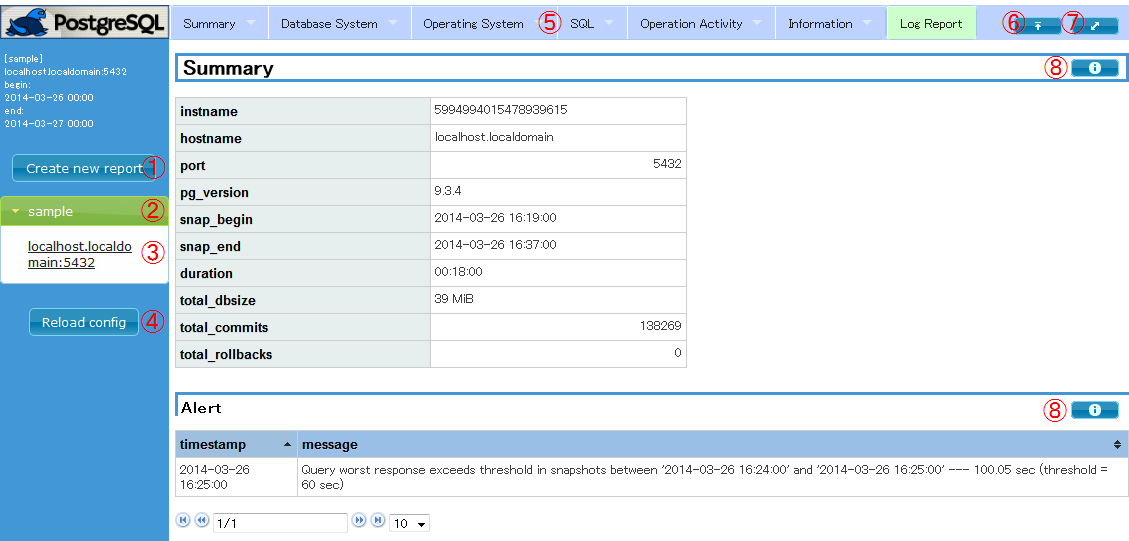
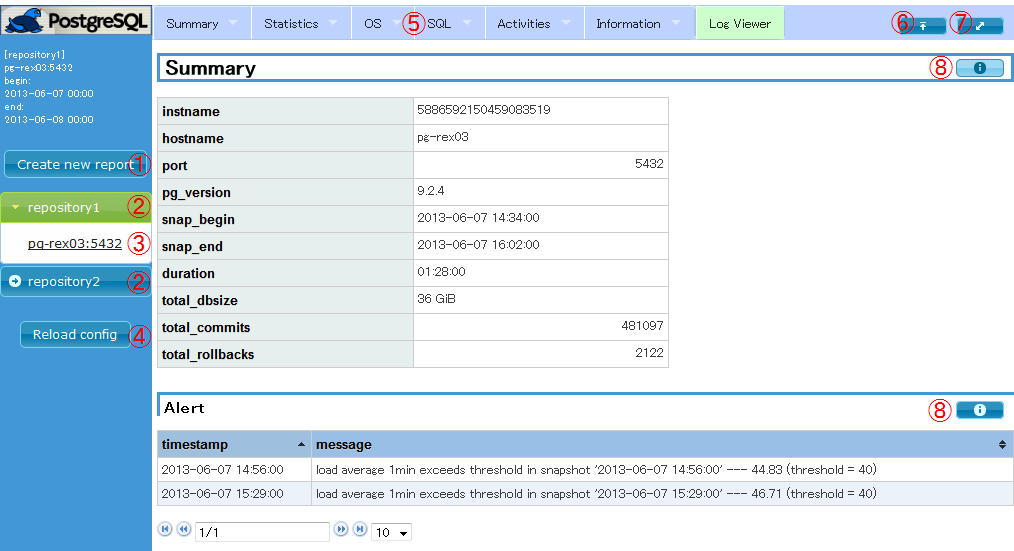
pg_stats_reporter マニュアルのレビュ(4/17)のコメント反映

Changed region(s): [[0.0, 0.0, 1.0, 0.6802], [0.1529, 0.7098, 1.0, 0.9168], [0.1529, 0.9464, 0.3974, 0.976]]

diff --git a/html/pg_stats_reporter/doc/files/log_viewer_sample.html b/html/pg_stats_reporter/doc/files/log_viewer_sample.html
@@ -28,8 +28,8 @@
 <script type="text/javascript" src="../../package/tablesorter/js/widgets/widget-columnSelector.js"></script>
 <!-- pg_stats_reporter's javascript -->
 <script type="text/javascript" src="../js/common.js"></script>
-<script type="text/javascript" src="../js/log_report.js"></script>
-<script type="text/javascript" src="../js/log_report_ajax.js"></script>
+<script type="text/javascript" src="../js/log_viewer.js"></script>
+<script type="text/javascript" src="../js/log_viewer_ajax.js"></script>
 
 <!-- stylesheets -->
 <link rel="stylesheet" type="text/css" href="../../package/superfish/superfish-1.7.2/css/superfish.css"/>
@@ -46,7 +46,7 @@
 <li><a href="report_sample.html#summary">Summary</a><ul>
 <li><a href="report_sample.html#alert">Alert</a></li>
 </ul></li>
-<li><a href="report_sample.html#database_system">Database System</a><ul>
+<li><a href="report_sample.html#statistics">Statistics</a><ul>
 <li><a href="report_sample.html#database_statistics">Database Statistics</a><ul>
 <li><a href="report_sample.html#transaction_statistics">Transaction Statistics</a></li>
 <li><a href="report_sample.html#database_size">Database Size</a></li>
@@ -58,7 +58,7 @@
 <li><a href="report_sample.html#instance_processes">Instance Processes</a></li>
 </ul></li>
 </ul></li>
-<li><a href="report_sample.html#operating_system">Operating System</a><ul>
+<li><a href="report_sample.html#os">OS</a><ul>
 <li><a href="report_sample.html#os_resource_usage">OS Resource Usage</a><ul>
 <li><a href="report_sample.html#cpu_usage">CPU Usage</a></li>
 <li><a href="report_sample.html#load_average">Load Average</a></li>
@@ -84,7 +84,7 @@
 <li><a href="report_sample.html#long_transactions">Long Transactions</a></li>
 <li><a href="report_sample.html#lock_conflicts">Lock Conflicts</a></li>
 </ul></li>
-<li><a href="report_sample.html#operation_activity">Operation Activity</a><ul>
+<li><a href="report_sample.html#activities">Activities</a><ul>
 <li><a href="report_sample.html#checkpoint_activity">Checkpoint Activity</a></li>
 <li><a href="report_sample.html#autovacuum_activity">Autovacuum Activity</a><ul>
 <li><a href="report_sample.html#basic_statistics">Basic Statistics (Average)</a></li>
@@ -105,9 +105,9 @@
 </ul></li>
 </ul></li>
 </ul>
-<!-- Log Report -->
+<!-- Log Viewer -->
 <ul id="dropdown2" class="sf-menu menu">
-<li><a href="#log_report">Log Report</a></li>
+<li><a href="#log_viewer">Log Viewer</a></li>
 </ul>
 <!-- hide left menu button  -->
 <div align="right" class="jquery_ui_button_max">
@@ -158,10 +158,10 @@
 <div id="contents">
   <div class="top_jump_margin"></div>
 
-  <div id="log_report" class="jump_margin"></div>
-  <h1>Log Report</h1>
+  <div id="log_viewer" class="jump_margin"></div>
+  <h1>Log Viewer</h1>
   <div align="right" class="jquery_ui_button_info_h1">
-    <button class="help_button" dialog="#log_report_dialog"></button>
+    <button class="help_button" dialog="#log_viewer_dialog"></button>
   </div>
 
   <input id="page_total" type="hidden" value="3">
@@ -235,7 +235,7 @@
       </div>
     </div>
   </div>
-  <table id="log_report_table" class="tablesorter">
+  <table id="log_viewer_table" class="tablesorter">
     <thead>
       <tr>
         <th>timestamp</th>
@@ -274,7 +274,7 @@
       </div>
     </div>
   </div>
-<div id="log_report_dialog" class="help_dialog" title="How to see a Log Report table">
+<div id="log_viewer_dialog" class="help_dialog" title="How to use Log Viewer">
 <h4>How to use Search Option.</h4>
 To narrow down the log, enter the search criteria and click "Search" button.
 <ul>
@@ -283,7 +283,7 @@ To narrow down the log, enter the search criteria and click "Search" button.
 <li>DATABASE : database name</li>
 <li>MESSAGE : error message (POSIX Regular Expressions)</li>
 </ul>
-<h4>How to see a Log Report table.</h4>
+<h4>How to see a Log table.</h4>
 <ul>
 <li>timestamp : timestamp with milliseconds</li>
 <li>username : user name</li>

diff --git a/html/pg_stats_reporter/doc/files/report_sample.html b/html/pg_stats_reporter/doc/files/report_sample.html
@@ -56,7 +56,7 @@
 <li><a href="#summary">Summary</a><ul>
 <li><a href="#alert">Alert</a></li>
 </ul></li>
-<li><a href="#database_system">Database System</a><ul>
+<li><a href="#statistics">Statistics</a><ul>
 <li><a href="#database_statistics">Database Statistics</a><ul>
 <li><a href="#transaction_statistics">Transaction Statistics</a></li>
 <li><a href="#database_size">Database Size</a></li>
@@ -68,7 +68,7 @@
 <li><a href="#instance_processes">Instance Processes</a></li>
 </ul></li>
 </ul></li>
-<li><a href="#operating_system">Operating System</a><ul>
+<li><a href="#os">OS</a><ul>
 <li><a href="#os_resource_usage">OS Resource Usage</a><ul>
 <li><a href="#cpu_usage">CPU Usage</a></li>
 <li><a href="#load_average">Load Average</a></li>
@@ -94,7 +94,7 @@
 <li><a href="#long_transactions">Long Transactions</a></li>
 <li><a href="#lock_conflicts">Lock Conflicts</a></li>
 </ul></li>
-<li><a href="#operation_activity">Operation Activity</a><ul>
+<li><a href="#activities">Activities</a><ul>
 <li><a href="#checkpoint_activity">Checkpoint Activity</a></li>
 <li><a href="#autovacuum_activity">Autovacuum Activity</a><ul>
 <li><a href="#basic_statistics">Basic Statistics (Average)</a></li>
@@ -115,9 +115,9 @@
 </ul></li>
 </ul></li>
 </ul>
-<!-- Log Report -->
+<!-- Log Viewer -->
 <ul id="dropdown2" class="sf-menu menu">
-<li><a href="log_report_sample.html">Log Report</a></li>
+<li><a href="log_viewer_sample.html">Log Viewer</a></li>
 </ul>
 <!-- hide left menu button  -->
 <div align="right" class="jquery_ui_button_max">
@@ -235,8 +235,8 @@ var checkpoint_date_list = [
 </form></div>
 </div>
 
-<div id="database_system" class="jump_margin"></div>
-<h1>Database System</h1>
+<div id="statistics" class="jump_margin"></div>
+<h1>Statistics</h1>
 <div id="database_statistics" class="jump_margin"></div>
 <h2>Database Statistics</h2>
 <div align="right" class="jquery_ui_button_info_h2">
@@ -903,8 +903,8 @@ $("#instance_processes_line").button().click( function() {
 	});
 } );
 </script>
-<div id="operating_system" class="jump_margin"></div>
-<h1>Operating System</h1>
+<div id="os" class="jump_margin"></div>
+<h1>OS</h1>
 <div id="os_resource_usage" class="jump_margin"></div>
 <h2>OS Resource Usage</h2>
 <div id="cpu_usage" class="jump_margin"></div>
@@ -2451,8 +2451,8 @@ FROM sto...;</td></tr>
 </select>
 </form></div>
 </div>
-<div id="operation_activity" class="jump_margin"></div>
-<h1>Operation Activity</h1>
+<div id="activities" class="jump_margin"></div>
+<h1>Activities</h1>
 <div id="checkpoint_activity" class="jump_margin"></div>
 <h2>Checkpoint Activity</h2>
 <div align="right" class="jquery_ui_button_info_h2">

diff --git a/html/pg_stats_reporter/doc/js/log_viewer_ajax.js b/html/pg_stats_reporter/doc/js/log_viewer_ajax.js
@@ -1,5 +1,5 @@
 /*
- * log_report_ajax: Javascript
+ * log_viewer_ajax: Javascript
  *
  * Copyright (c) 2012,2014, NIPPON TELEGRAPH AND TELEPHONE CORPORATION
  */
@@ -25,13 +25,13 @@ $(function(){
 	/*** main ***/
 	/* show first page */
 	if (page_total > 0) {
-		$("#log_report_table").hide();
+		$("#log_viewer_table").hide();
 		$("#f-navi").hide();
 		pageChange(1);
-		$("#log_report_table").show();
+		$("#log_viewer_table").show();
 		$("#f-navi").show();
 	} else {
-		$("#log_report_table").hide();
+		$("#log_viewer_table").hide();
 		$(".page_info").hide();
 		$("#column_select").hide();
 		$("#filter_reset").hide();
@@ -83,9 +83,9 @@ $(function(){
 	};
 
 	function outputSuccess(data, dataType){
-		$("#log_report_table tbody").html(data);
-		$("#log_report_table").trigger("update");
-		$("#log_report_table").trigger("filterReset");
+		$("#log_viewer_table tbody").html(data);
+		$("#log_viewer_table").trigger("update");
+		$("#log_viewer_table").trigger("filterReset");
 	};
 
 	function outputError(XMLHttpRequest, textStatus, errorThrown){

diff --git a/html/pg_stats_reporter/doc/js/log_viewer.js b/html/pg_stats_reporter/doc/js/log_viewer.js
@@ -1,12 +1,12 @@
 /*
- * log_report: Javascript
+ * log_viewer: Javascript
  *
  * Copyright (c) 2012,2014, NIPPON TELEGRAPH AND TELEPHONE CORPORATION
  */
 
 $(function(){
 	/*** tablesorter setting ***/
-	$("#log_report_table").tablesorter({
+	$("#log_viewer_table").tablesorter({
 		theme: 'blue',
 		headerTemplate : '{content} {icon}',
 		widthFixed: false,
